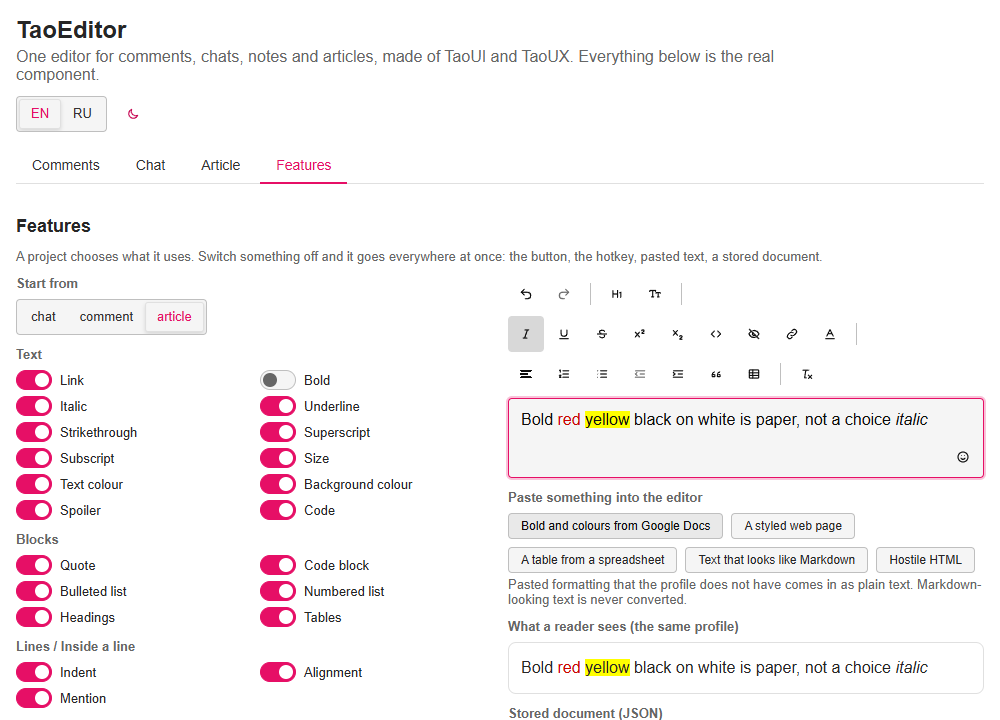
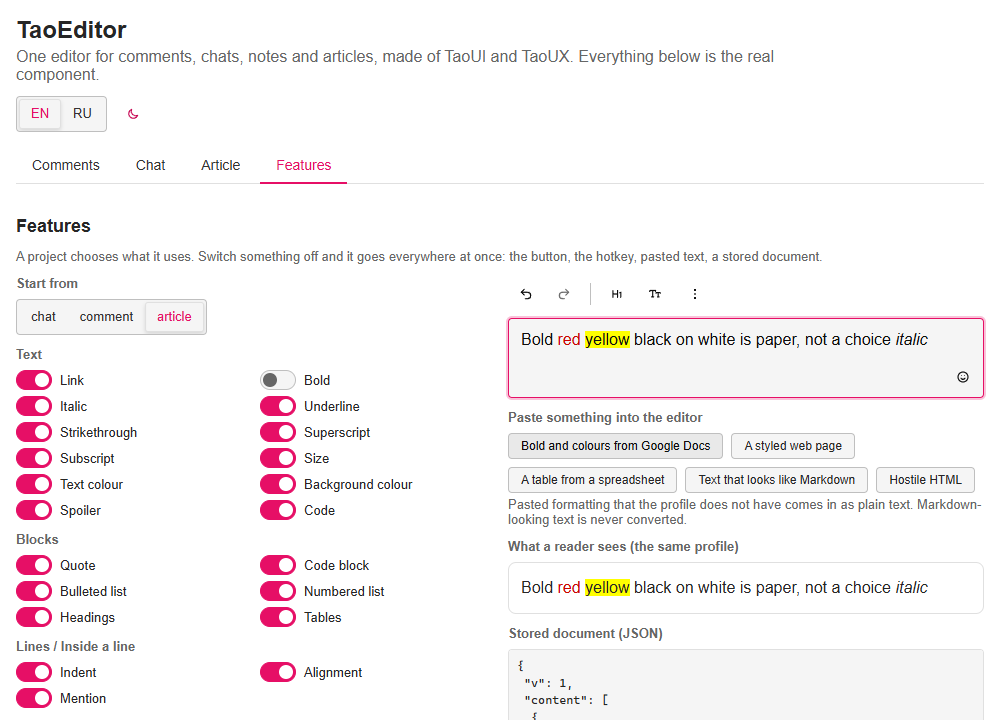
Code block button: toggle, text-only conversion, Enter on an empty last line leaves the block

Changed region(s): [[0.496, 0.4278, 0.992, 1.0]]

diff --git a/src/editor/code.ts b/src/editor/code.ts
@@ -1,0 +1,83 @@
+/**
+ * The code block (a block of plain, monospaced text, not the inline `code` mark): a toolbar toggle and the way out of it.
+ * Turning lines into a block keeps their text only (marks go, a line break stays a line, a mention becomes its `@name`);
+ * turning a block back makes a paragraph with its lines.
+ *
+ * Блок кода (блок простого моноширинного текста, не метка `code`): переключатель панели и выход из блока.
+ * Строки в блок превращаются только текстом (марки уходят, перенос остаётся переносом, упоминание становится `@имя`);
+ * блок обратно делается абзацем со строками.
+ */
+import type { Node as PMNode, Schema } from 'prosemirror-model';
+import { TextSelection, type Command } from 'prosemirror-state';
+import { findAncestor } from './blocks';
+
+const NEWLINE = String.fromCharCode(10);
+
+/** The text of a line of text as code: marks off, a break is a newline, a mention is its name. */
+function codeText(node: PMNode): string {
+    let out = '';
+    node.forEach((child) => {
+        if (child.isText) out += child.text ?? '';
+        else if (child.type.name === 'hardBreak') out += NEWLINE;
+        else out += child.type.spec.leafText ? child.type.spec.leafText(child) : '';
+    });
+    return out;
+}
+
+/** Makes the selected lines one code block, or takes the block the caret is in back to a paragraph. */
+export function toggleCodeBlock(schema: Schema): Command {
+    const { codeBlock, paragraph, hardBreak } = schema.nodes;
+    if (!codeBlock || !paragraph) return () => false;
+    return (state, dispatch) => {
+        const inside = findAncestor(state, (n) => n.type === codeBlock);
+        if (inside) {
+            if (dispatch) {
+                const lines = inside.node.textContent.split(NEWLINE);
+                const content = lines.flatMap((line, i) => [...(i > 0 && hardBreak ? [hardBreak.create()] : []), ...(line ? [schema.text(line)] : [])]);
+                const tr = state.tr.replaceWith(inside.pos, inside.pos + inside.node.nodeSize, paragraph.create(null, content));
+                tr.setSelection(TextSelection.near(tr.doc.resolve(inside.pos + tr.doc.nodeAt(inside.pos)!.nodeSize - 1), -1)); // the caret at the end of the lines
+                dispatch(tr.scrollIntoView());
+            }
+            return true;
+        }
+        const { $from, $to } = state.selection;
+        const range = $from.blockRange($to);
+        if (!range) return false;
+        const blocks: PMNode[] = [];
+        for (let i = range.startIndex; i < range.endIndex; i++) blocks.push(range.parent.child(i));
+        // only plain lines of text (paragraphs, headings): a list or a quote in the selection is not turned into code
+        if (blocks.length === 0 || !blocks.every((b) => b.isTextblock) || !range.parent.canReplaceWith(range.startIndex, range.endIndex, codeBlock)) return false;
+        if (dispatch) {
+            const text = blocks.map(codeText).join(NEWLINE);
+            const tr = state.tr.replaceWith(range.start, range.end, codeBlock.create(null, text ? schema.text(text) : undefined));
+            tr.setSelection(TextSelection.near(tr.doc.resolve(range.start + tr.doc.nodeAt(range.start)!.nodeSize - 1), -1)); // the caret at the end of the code
+            dispatch(tr.scrollIntoView());
+        }
+        return true;
+    };
+}
+
+/**
+ * Enter (or Shift+Enter) on an empty last line of a code block leaves it: the empty line goes and a paragraph comes after.
+ * A block at the end of the document would otherwise have no way out.
+ * Enter (или Shift+Enter) на пустой последней строке блока кода выходит из него: пустая строка уходит, после блока
+ * появляется абзац. Блоку в конце документа иначе было бы не выйти.
+ */
+export function exitCodeBlock(schema: Schema): Command {
+    const { codeBlock, paragraph } = schema.nodes;
+    if (!codeBlock || !paragraph) return () => false;
+    return (state, dispatch) => {
+        const { $head, empty } = state.selection;
+        const node = $head.parent;
+        if (!empty || node.type !== codeBlock || $head.parentOffset !== node.content.size || !node.textContent.endsWith(NEWLINE)) return false;
+        if (dispatch) {
+            const end = $head.after();
+            const tr = state.tr.delete($head.pos - 1, $head.pos);
+            const after = tr.mapping.map(end);
+            tr.insert(after, paragraph.create());
+            tr.setSelection(TextSelection.near(tr.doc.resolve(after + 1)));
+            dispatch(tr.scrollIntoView());
+        }
+        return true;
+    };
+}

diff --git a/tests/editor/codeblock.test.ts b/tests/editor/codeblock.test.ts
@@ -1,0 +1,65 @@
+// @vitest-environment jsdom
+import { TextSelection } from 'prosemirror-state';
+import { describe, expect, it } from 'vitest';
+import { withoutFeatures } from '../../src/core';
+import { press, mount, type } from './helpers';
+
+const NL = String.fromCharCode(10);
+const types = (ed: ReturnType<typeof mount>) => ed.getDoc().content.map((n) => n.type);
+
+describe('the code block', () => {
+    it('turns the line into a block and back, and the caret stays in it', () => {
+        const ed = mount({ profile: 'comment' });
+        type(ed, 'let a = 1');
+        expect(ed.toggleCodeBlock()).toBe(true);
+        expect(types(ed)).toEqual(['codeBlock']);
+        expect(ed.isBlockActive('codeBlock')).toBe(true);
+        type(ed, ';');
+        expect(ed.getDoc().content[0].content![0].text).toBe('let a = 1;');
+        expect(ed.toggleCodeBlock()).toBe(true);
+        expect(types(ed)).toEqual(['paragraph']);
+        expect(ed.issues()).toEqual([]);
+    });
+
+    it('keeps only the text: marks go, a break is a newline, a mention is its name; several lines make one block', () => {
+        const ed = mount({ profile: 'comment' });
+        ed.setDoc({
+            v: 1,
+            content: [
+                { type: 'paragraph', content: [{ type: 'text', text: 'one', marks: [{ type: 'bold' }] }, { type: 'hardBreak' }, { type: 'text', text: 'two' }] },
+                { type: 'paragraph', content: [{ type: 'mention', attrs: { id: 'u1', label: 'Ann' } }] },
+            ],
+        });
+        ed.view.dispatch(ed.view.state.tr.setSelection(TextSelection.create(ed.view.state.doc, 1, ed.view.state.doc.content.size - 1)));
+        expect(ed.toggleCodeBlock()).toBe(true);
+        expect(ed.getDoc().content).toEqual([{ type: 'codeBlock', content: [{ type: 'text', text: ['one', 'two', '@Ann'].join(NL) }] }]);
+        ed.toggleCodeBlock();
+        expect(ed.getDoc().content[0].content!.map((n) => n.type)).toEqual(['text', 'hardBreak', 'text', 'hardBreak', 'text']);
+        expect(ed.issues()).toEqual([]);
+    });
+
+    it('Enter on an empty last line leaves the block, so the end of the document has a way out', () => {
+        const ed = mount({ profile: 'comment' });
+        type(ed, 'x');
+        ed.toggleCodeBlock();
+        press(ed, 'Enter'); // a new line in the block (the base keymap)
+        expect(ed.getDoc().content[0].content![0].text).toBe('x' + NL);
+        expect(types(ed)).toEqual(['codeBlock']);
+        expect(press(ed, 'Enter')).toBe(true);
+        expect(types(ed)).toEqual(['codeBlock', 'paragraph']);
+        type(ed, 'after');
+        expect(ed.getDoc().content[1].content![0].text).toBe('after');
+        expect(ed.issues()).toEqual([]);
+    });
+
+    it('does nothing in a profile without it, in a table cell, and for a selection with a list in it', () => {
+        const none = mount({ profile: withoutFeatures('comment', { nodes: ['codeBlock'] }) });
+        type(none, 'x');
+        expect(none.toggleCodeBlock()).toBe(false);
+        const ed = mount({ profile: 'comment' });
+        ed.insertTable(1, 1);
+        type(ed, 'x');
+        expect(ed.toggleCodeBlock()).toBe(false);
+        expect(ed.issues()).toEqual([]);
+    });
+});

diff --git a/src/vue/taoui/TaoEditor.ts b/src/vue/taoui/TaoEditor.ts
@@ -50,6 +50,7 @@ registerTaoIcons({
     'te-align-justify': { body: '<path d="M4 6.5h16M4 12h16M4 17.5h16"/>', grid: true },
     'te-color': { body: '<path d="M6.5 15.5L12 4.5l5.5 11M8.4 11.5h7.2"/><path d="M5 20h14"/>' },
     'te-code': { body: '<path d="M9 7l-5 5 5 5M15 7l5 5-5 5"/>' },
+    'te-code-block': { body: '<rect x="4" y="5" width="16" height="14" rx="2"/><path d="M10 9.5L7.5 12l2.5 2.5M14 9.5l2.5 2.5-2.5 2.5"/>' },
     'te-table': { body: '<rect x="4" y="5" width="16" height="14" rx="1.5"/><path d="M4 10h16M4 14.5h16M10 5v14"/>' },
     'te-dots': { body: '<path stroke-width="3.6" d="M5.5 12h.01M12 12h.01M18.5 12h.01"/>' },
     'te-trash': { body: '<path d="M5 7h14M10 7V5h4v2M7 7l1 12h8l1-12M10 11v5M14 11v5"/>' },
@@ -84,6 +85,7 @@ export interface TaoEditorLabels {
     indent: string;
     outdent: string;
     quote: string;
+    codeBlock: string;
     clear: string;
     blockStyle: string;
     styleNormal: string;
@@ -153,6 +155,7 @@ export const DEFAULT_LABELS: Readonly<TaoEditorLabels> = {
     indent: 'Increase indent',
     outdent: 'Decrease indent',
     quote: 'Quote',
+    codeBlock: 'Code block',
     clear: 'Clear formatting',
     blockStyle: 'Paragraph style',
     styleNormal: 'Normal text',
@@ -654,6 +657,7 @@ export const TaoEditor = defineComponent({
                       ]
                     : []),
                 ...(nodes.includes('blockquote') ? [tool(text.quote, 'te-quote', () => handle?.toggleQuote(), { shortcut: key('9', true), pressed: handle?.isBlockActive('blockquote') ?? false })] : []),
+                ...(nodes.includes('codeBlock') ? [tool(text.codeBlock, 'te-code-block', () => handle?.toggleCodeBlock(), { pressed: handle?.isBlockActive('codeBlock') ?? false })] : []),
                 ...(nodes.includes('table') ? [tool(text.table, 'te-table', () => {
                     tableFrom.value = 'toolbar';
                     toggleMenu('table');

diff --git a/src/editor/editor.ts b/src/editor/editor.ts
@@ -8,6 +8,7 @@ import { docToNode, nodeToDoc, withoutGuards } from './convert';
 import type { MentionHooks, MentionTrigger } from './mentions';
 import { alignAt, blockStyleAt, clearFormatting, setBlockStyle, indent, isBlockActive, outdent, setAlign, toggleList, toggleQuote, type Align, type BlockStyle } from './blocks';
 import { createPlugins, type SubmitMode } from './plugins';
+import { toggleCodeBlock } from './code';
 import { createSchema } from './schema';
 import { insertTable, inTable, tableCommand, type TableCommand } from './tables';
 
@@ -58,6 +59,8 @@ export interface EditorHandle {
     /** Makes the paragraphs a list, takes them out of one, or changes its kind. False when the profile has no lists. */
     toggleList(name: 'bulletList' | 'orderedList'): boolean;
     toggleQuote(): boolean;
+    /** Makes the selected lines a block of code (plain text, monospaced), or takes the block the caret is in back to a paragraph. */
+    toggleCodeBlock(): boolean;
     /** One level in / out for a list item. */
     indent(): boolean;
     outdent(): boolean;
@@ -204,6 +207,7 @@ export function createEditor(parent: HTMLElement, options: EditorOptions = {}): 
         },
         toggleList: (name) => toggleList(schema, name)(view.state, view.dispatch, view),
         toggleQuote: () => toggleQuote(schema)(view.state, view.dispatch, view),
+        toggleCodeBlock: () => toggleCodeBlock(schema)(view.state, view.dispatch, view),
         indent: () => indent(schema)(view.state, view.dispatch, view),
         outdent: () => outdent(schema)(view.state, view.dispatch, view),
         canIndent: () => indent(schema)(view.state),

diff --git a/src/editor/plugins.ts b/src/editor/plugins.ts
@@ -7,6 +7,7 @@ import { Plugin, type Command } from 'prosemirror-state';
 import { goToNextCell, tableEditing } from 'prosemirror-tables';
 import { Decoration, DecorationSet } from 'prosemirror-view';
 import { setBlockStyle, tabOut, toggleList, toggleQuote } from './blocks';
+import { exitCodeBlock } from './code';
 import { mentionPlugin, type MentionHooks } from './mentions';
 
 export type SubmitMode = 'enter' | 'mod-enter' | 'none';
@@ -123,12 +124,13 @@ export function createPlugins(schema: Schema, options: PluginOptions): Plugin[] 
             'Mod-Alt-2': setBlockStyle(schema, 2),
             'Mod-Alt-3': setBlockStyle(schema, 3),
             // in a list: a new item, one level in, one level out; outside a list these do nothing and the browser's Tab moves on
-            ...(item ? { Enter: splitListItem(item) } : {}),
+            // Enter on an empty last line leaves a code block; in a list it starts a new item
+            Enter: chainCommands(exitCodeBlock(schema), ...(item ? [splitListItem(item)] : [])),
             ...(item || hasTables ? { Tab: tab, 'Shift-Tab': shiftTab } : {}),
             'Mod-z': undo,
             'Mod-y': redo,
             'Mod-Shift-z': redo,
-            'Shift-Enter': lineBreak,
+            'Shift-Enter': chainCommands(exitCodeBlock(schema), lineBreak),
         }),
         keymap(baseKeymap),
         history(),

diff --git a/tests/vue/toolbar.test.ts b/tests/vue/toolbar.test.ts
@@ -43,7 +43,7 @@ describe('the toolbar follows the profile, in the order of Gmail\'s bar', () => 
         expect(names(m.host)).toEqual([
             'Undo', 'Redo',
             'Text size', 'Bold', 'Italic', 'Underline', 'Strikethrough', 'Superscript', 'Code', 'Spoiler', 'Link',
-            'Align', 'Numbered list', 'Bulleted list', 'Decrease indent', 'Increase indent', 'Quote', 'Table',
+            'Align', 'Numbered list', 'Bulleted list', 'Decrease indent', 'Increase indent', 'Quote', 'Code block', 'Table',
             'Clear formatting',
         ]);
         expect(m.host.querySelectorAll('.tao-editor-toolbar [role="separator"]').length).toBe(4);

diff --git a/demo/src/locales/editorLabels.ru.ts b/demo/src/locales/editorLabels.ru.ts
@@ -23,6 +23,7 @@ export const editorLabelsRu: TaoEditorLabels = {
     indent: 'Увеличить отступ',
     outdent: 'Уменьшить отступ',
     quote: 'Цитата',
+    codeBlock: 'Блок кода',
     clear: 'Очистить форматирование',
     blockStyle: 'Стиль абзаца',
     styleNormal: 'Обычный текст',

diff --git a/README.ru.md b/README.ru.md
@@ -59,7 +59,7 @@ const profile = withoutFeatures('comment', { marks: ['bold'], features: ['align'
 - **Свой хранимый документ**: версионное JSON-дерево (`{ v: 1, content: [...] }`). HTML не хранится никогда, и JSON самого движка форматом не является.
 - **Нормализатор — ворота**: на входе недоверенный JSON, на выходе канонический верный документ, исключений не бросает. Неизвестные и запрещённые узлы разворачиваются (текст сохраняется), ссылки идут через один список (`https`/`http`, без логина в адресе), управляющие символы удаляются, вложенность ограничена.
 - **Проект выбирает, чем пользуется.** Готовые профили `chat`, `comment`, `article` (цвета и подстрочный есть у статьи; у комментария есть надстрочный, у чата нет); свой делается через `withoutFeatures(...)` или `defineProfile(...)`. Чего профиль не содержит, у того нет кнопки, не работает горячая клавиша, вставленное форматирование с этим приходит простым текстом, а сохранённый документ показывается без него. Опечатка в имени бросает ошибку.
-- **Панель как у почтового клиента**: отмена и повтор, жирный, курсив, подчёркнутый, зачёркнутый, надстрочный и подстрочный, код, спойлер, ссылка, размер текста, цвет текста и фона (сетка на 80 и поле для любого другого), выравнивание, нумерованный и маркированный списки, цитата, таблицы, отступы, стиль абзаца (обычный текст, заголовки 1 до 3), очистка форматирования. Горячие клавиши Gmail и Docs. Обычная или `floating` над выделением. Кнопки, которые профилю не нужны, не показываются.
+- **Панель как у почтового клиента**: отмена и повтор, жирный, курсив, подчёркнутый, зачёркнутый, надстрочный и подстрочный, код, спойлер, ссылка, размер текста, цвет текста и фона (сетка на 80 и поле для любого другого), выравнивание, нумерованный и маркированный списки, цитата, блок кода, таблицы, отступы, стиль абзаца (обычный текст, заголовки 1 до 3), очистка форматирования. Горячие клавиши Gmail и Docs. Обычная или `floating` над выделением. Кнопки, которые профилю не нужны, не показываются.
 - **Таблицы** (`comment` и `article`; в `chat` их нет): выбор размера в панели, затем меню для таблицы, в которой стоит курсор (строки и столбцы выше, ниже, слева, справа, удаление; строка заголовка; удалить таблицу). Tab и Shift+Tab идут по ячейкам и в крайних отпускают, так что клавиатура не застревает. Таблица это простой прямоугольник: без объединённых ячеек (вставленное объединение приходит одиночными ячейками), не больше 50 строк на 20 столбцов, без таблицы в таблице. Профиль без таблиц показывает вставленную таблицу текстом.
 - **Ничего не превращается за спиной.** Набранное и вставленное остаётся тем, чем было: текст, похожий на Markdown, остаётся текстом. Форматирование есть только если его применили явно или оно пришло настоящим форматированием во вставленном HTML (куски из Google Docs, Word и Gmail читаются, их чёрные чернила и белая бумага нет).
 - **Безопасная вставка и безопасный вывод**: Ctrl+Shift+V вставляет только текст (как в Gmail и Docs; кнопки нет намеренно); вставленный HTML читается только правилами схемы, поэтому скрипты, обработчики, картинки и небезопасные ссылки не проходят; вывод никогда не принимает строку за разметку, а цвет не может внести в style ничего, кроме цвета.

diff --git a/CHANGELOG.md b/CHANGELOG.md
@@ -5,6 +5,7 @@
 - **Superscript and subscript.** Two new marks, `superscript` and `subscript` (Ctrl+. and Ctrl+, as in Docs, buttons in the toolbar, `<sup>` and `<sub>` in the viewer). They exclude each other (one replaces the other; if a stored document has both, superscript stays) and `code`; pasted `sup`, `sub` and `vertical-align` from Docs and Word are read. New labels `superscript` and `subscript` in `TaoEditorLabels`.
 - **The ready profiles are leaner**: `comment` has no text and background colour and no subscript, `chat` also has no superscript; `article` keeps everything. A project can still take marks away or define its own profile (`defineProfile` with the marks it wants).
 - **One row toolbar.** The toolbar uses TaoUI 5.31 `overflow`: it stays one row, and the groups that do not fit go under a "More" button (the history group stays). The popups of a button in that panel open below the panel. New label `more`. `@1337exp/taoui` is now `^5.31.0` (peer and dev); `floating` toolbars are not changed.
+- **Code block button.** The code block (a block of plain monospaced text, apart from the inline `code` mark) gets a toolbar toggle: the selected lines become one block (text only: marks go, a mention becomes its `@name`) and back to a paragraph. Enter or Shift+Enter on an empty last line leaves the block, so one at the end of the document has a way out. `createEditor` gains `toggleCodeBlock`; new label `codeBlock`. A table cell does not take one.
 - **Tables.** New nodes `table`, `tableRow`, `tableCell` and `tableHeader` in the document (`comment` and `article` have them, `chat` does not; `withoutFeatures(profile, { nodes: ['table'] })` takes the table and its parts away together). A table is a plain rectangle: the normalizer fills a short row with empty cells, cuts it to 50 rows by 20 columns, and keeps tables out of cells, quotes and lists; merged cells and column widths are not in the model. A profile without tables shows the cells as paragraphs.
 - **In the editor** (on `prosemirror-tables` 1.8.5, exact): a table button with a size picker (8 by 6, arrows walk it), and, when the caret is in a table, a menu for rows, columns, the header row and deleting the table. A small button on the cell with the caret opens the same menu next to it (a long table needs no trip to the toolbar). Tab and Shift+Tab walk the cells and fall through at the ends; while editing, a table at the start or the end of the document has an empty guard paragraph next to it so the caret can stand there (easy on a phone); the guard paragraphs are not part of the document: `getDoc`, `change` and `send` leave out one empty paragraph before a first table and one after a last table. `createEditor` gains `insertTable`, `inTable`, `tableCommand`, `canTableCommand`. Pasted tables (Google Docs, Excel, web pages) are read through the schema; in a profile without tables a space is kept between the cells.
 - **Paste without formatting**: Ctrl+Shift+V pastes only the text of the clipboard (the engine does this itself; a test now guards it). No toolbar button, on purpose: Gmail and Docs have none, and a phone has no such keys.

diff --git a/README.md b/README.md
@@ -59,7 +59,7 @@ On a server (previews, e-mails, search) use `@1337exp/taoeditor/core`: `normaliz
 - **Own stored document**: a versioned JSON tree (`{ v: 1, content: [...] }`). No HTML is ever stored, and the engine's own JSON is never the format.
 - **A normalizer is the gate**: untrusted JSON in, a canonical valid document out, never throws. Unknown or forbidden nodes are unwrapped (the text survives), links go through one allowlist (`https`/`http`, no credentials), control characters are stripped, nesting is capped.
 - **Choose what the project uses.** Ready profiles `chat`, `comment`, `article` (colours and subscript are for the article; a comment has the superscript, a chat does not); make your own with `withoutFeatures(...)` or `defineProfile(...)`. What a profile leaves out has no button, its hotkey does nothing, pasted formatting that has it comes in as plain text, and a stored document is shown without it. A typo in a name throws.
-- **The bar of a mail client**: undo and redo, bold, italic, underline, strikethrough, superscript and subscript, code, spoiler, link, text size, text and background colour (a grid of 80 and a field for any other), alignment, numbered and bulleted lists, quote, tables, indents, paragraph style (normal text, Heading 1 to 3), clear formatting. Gmail and Docs hotkeys. Fixed or `floating` over the selection. The buttons a profile cannot use are not shown.
+- **The bar of a mail client**: undo and redo, bold, italic, underline, strikethrough, superscript and subscript, code, spoiler, link, text size, text and background colour (a grid of 80 and a field for any other), alignment, numbered and bulleted lists, quote, code block, tables, indents, paragraph style (normal text, Heading 1 to 3), clear formatting. Gmail and Docs hotkeys. Fixed or `floating` over the selection. The buttons a profile cannot use are not shown.
 - **Tables** (`comment` and `article`; `chat` has none): a size picker in the toolbar, then a menu for the table the caret is in (rows and columns above, below, before, after, delete; a header row; delete the table). Tab and Shift+Tab walk the cells and leave at the ends, so the keyboard is never trapped. A table is a plain rectangle: no merged cells (a pasted merge comes in as single cells), at most 50 rows by 20 columns, no table inside a table. A profile without tables shows a pasted table as text.
 - **Nothing is converted behind your back.** What is typed or pasted stays what it was: text that looks like Markdown stays text. Formatting exists only when it was applied explicitly or came as real formatting in the pasted HTML (Google Docs, Word and Gmail runs are read, their black ink and white paper are not).
 - **Safe paste and safe output**: Ctrl+Shift+V pastes only the text (like Gmail and Docs; no button on purpose); pasted HTML is read only through the schema's rules, so scripts, handlers, images and unsafe links cannot get in; the output never takes a string as markup, and a colour can put nothing but a colour into a style.
